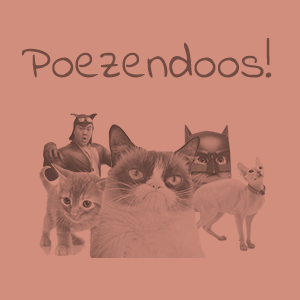
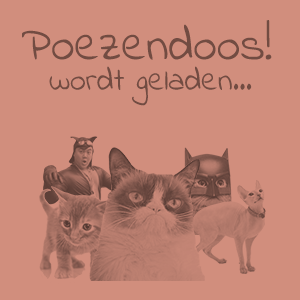
We waren de SPonny voor!

diff --git a/app/styles/main.css b/app/styles/main.css
@@ -12,7 +12,7 @@ body {
 
 	background-image: url(../images/poezen/introprent.png);
       background-repeat: no-repeat;
-      background-position: 50% -60%; 
+      background-position: 50% -50%; 
 
   font-family: 'Roboto', 'Helvetica Neue', Helvetica, Arial, sans-serif;
   color: #333;
